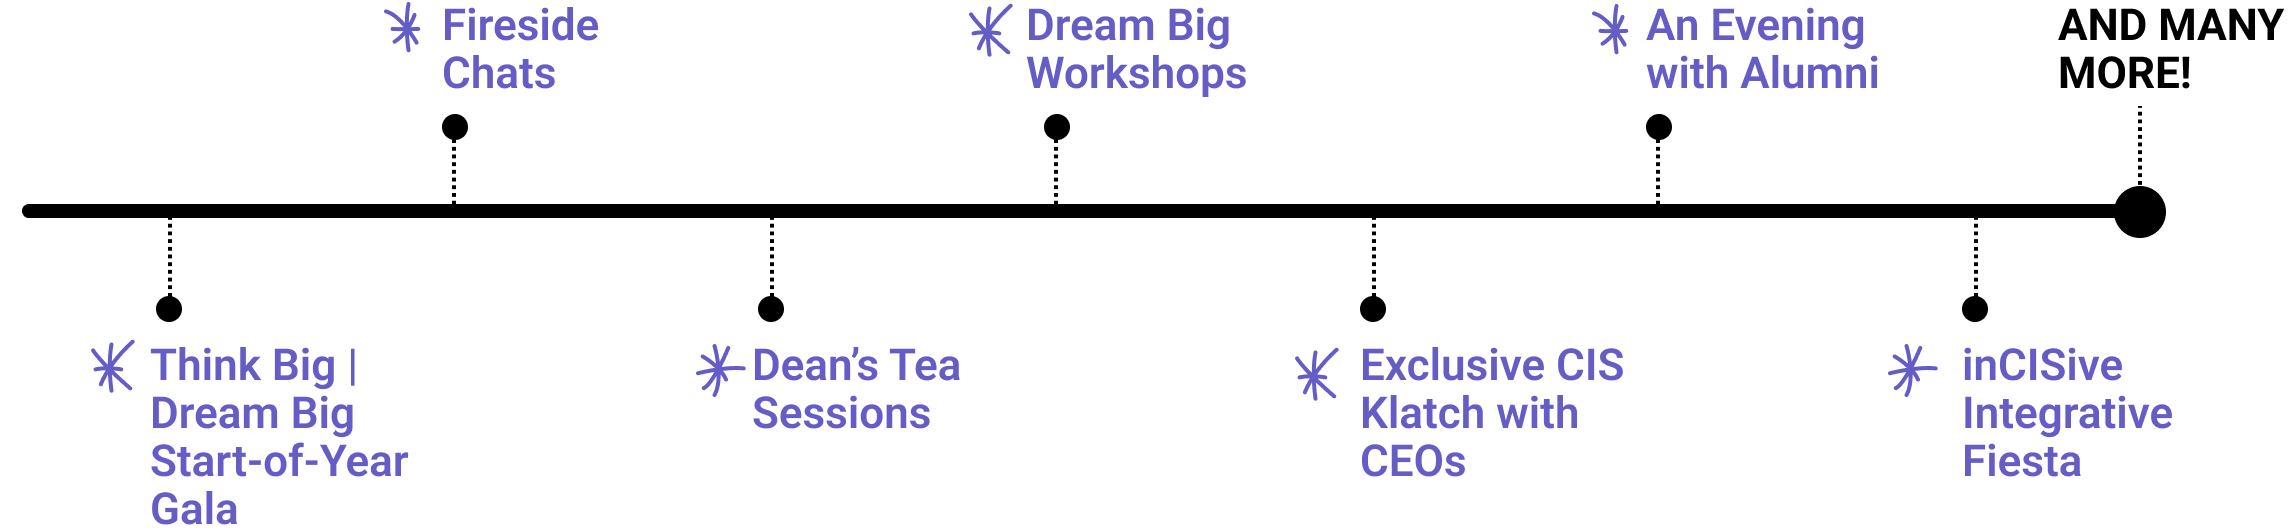
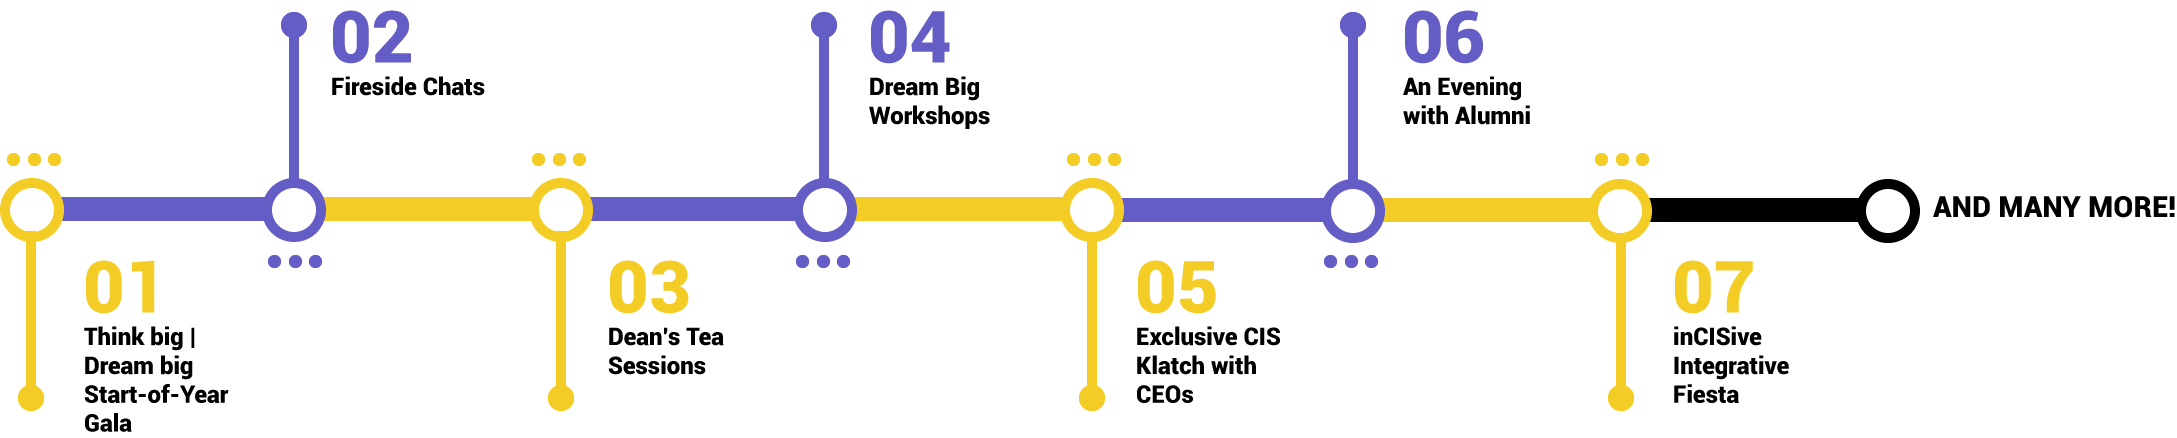
Added new infographic

Changed region(s): [[0.0, 0.0, 0.9995, 1.0], [0.8746, 0.0, 0.9995, 0.1781]]

diff --git a/css/all.css b/css/all.css
@@ -392,9 +392,12 @@ h2 {
 }
 
 .infographic {
-  width: 1146px;
+  width: 1088px;
+  height: 219px;
   margin: 40px 0;
   display: block;
+  background: url("../images/infographic.png") no-repeat scroll left top transparent;
+  background-size: 1088px 219px;
 }
 
 .title-alt {
@@ -589,6 +592,8 @@ h2 {
 
   .infographic {
     width: 100%;
+    background-size: contain;
+    height: 150px;
   }
 
   .excerpt {
@@ -819,7 +824,10 @@ h2 {
   }
 
   .infographic {
-    width: 100%;
+    background: url("../images/infographic-small.png") no-repeat scroll left top transparent;
+    width: 228px;
+    height: 585px;
+    background-size: 228px 585px;
   }
 
   .excerpt {

diff --git a/css/all.scss b/css/all.scss
@@ -394,9 +394,12 @@ h2{
 }
 
 .infographic{
-    width:1146px;
+    width:1088px;
+    height:219px;
     margin:40px 0;
     display: block;
+    @include background("infographic.png");
+    background-size:1088px 219px;
 }
 
 .title-alt{
@@ -604,6 +607,8 @@ h2{
 
     .infographic{
         width:100%;
+        background-size:contain;
+        height:150px;
     }
 
     .excerpt{
@@ -863,7 +868,10 @@ h2{
     }
 
     .infographic{
-        width:100%;
+        @include background("infographic-small.png");
+        width:228px;
+        height:585px;
+        background-size:228px 585px;
     }
 
     .excerpt{

diff --git a/index.html b/index.html
@@ -325,7 +325,7 @@
 					<p>
 						We have an exciting line-up of events in the year ahead that you can participate in:
 					</p>
-					<img src="images/infographic.png" class="infographic" alt="">
+					<div class="infographic"></div>
 					<span class="divider-dash"></span>
 					<div class="two-column">
 						<div class="bio">
